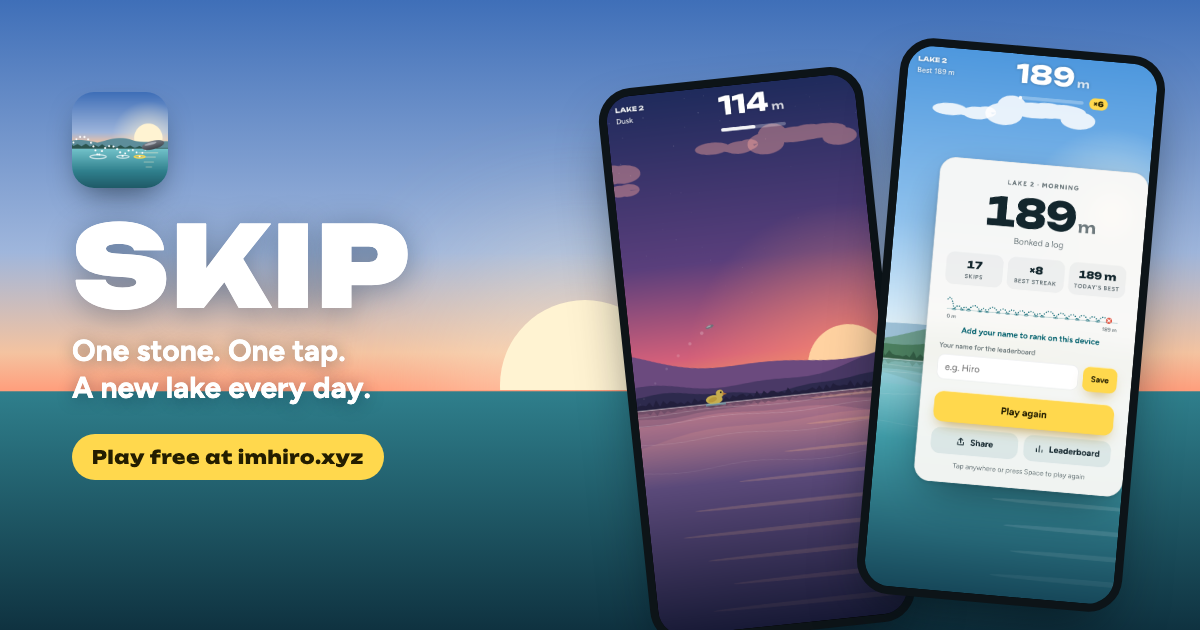
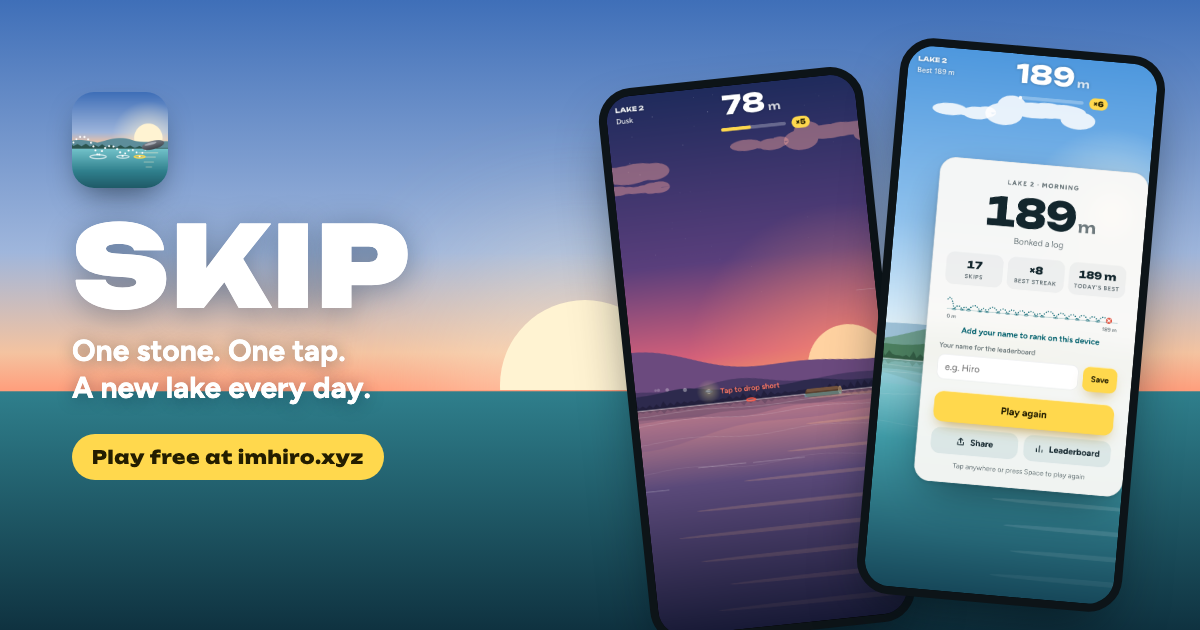
Skip: the sky moves on as a run goes farther
Every 125 m the lake blends into the next time of day (golden hour, dusk, night,
dawn...), the sun setting before the moon rises, with a banner and a soft chime.

Changed region(s): [[0.5242, 0.5429, 0.74, 0.6635], [0.5858, 0.1508, 0.74, 0.2714], [0.5242, 0.2413, 0.555, 0.3317]]

diff --git a/games/skip.html b/games/skip.html
@@ -373,6 +373,7 @@ const Audio = (() => {
     quack() { if (!ensure()) return; const t = ctx.currentTime; tone(t, 'sawtooth', 480, 330, 0.12, 0.10); tone(t + 0.15, 'sawtooth', 440, 290, 0.14, 0.09); },
     rustle() { if (!ensure()) return; noise(ctx.currentTime, 0.28, 2600, 0.7, 0.10); },
     whoosh() { if (!ensure()) return; noise(ctx.currentTime, 0.3, 1200, 0.6, 0.08); },
+    chime() { if (!ensure()) return; const t = ctx.currentTime; tone(t, 'sine', 659.25, 659.25, 0.55, 0.05); tone(t + 0.13, 'sine', 987.77, 987.77, 0.7, 0.045); },
     tada() {
       if (!ensure()) return; const t = ctx.currentTime;
       // a rising major arpeggio with a held top chord and a little sparkle
@@ -432,6 +433,7 @@ function init() {
   const forced = (hashParam('pal') || '').toLowerCase().replace(/[^a-z]/g, '');
   S.pal = PALETTES.find(p => p.id === forced) || PALETTES[hashStr('pal:' + S.key) % PALETTES.length];
   makeSkyBits(S.seed);
+  S.sky = S.pal.drawn; S.skyStage = 0; S.skyName = S.pal.name; S.banner = null;
   $('dayName').textContent = 'Lake ' + S.lake + ' · ' + S.pal.name;
   $('dayChip').style.setProperty('--swatch', S.pal.swatch);
   $('dayLine').textContent = prettyDate() + ' · the same lake for everyone';
@@ -486,6 +488,7 @@ function resetRun() {
   S.particles.length = 0; S.ripples.length = 0; S.popups.length = 0; S.trail.length = 0;
   for (const o of S.course) { o.hitAt = 0; o.gone = false; }
   S.camX = S.stone.x;
+  S.skyStage = 0; S.banner = null;
 }
 
 function predictContact(st) {
@@ -747,7 +750,8 @@ function showResult() {
   renderBestLine();
   $('rEyebrow').textContent = lakeLabel();
   const dn = $('rDist'); dn.textContent = String(d); const unit = document.createElement('small'); unit.textContent = 'm'; dn.appendChild(unit);
-  $('rReason').textContent = REASON_TEXT[S.endReason] || 'Sank';
+  const reached = skyState(S.dist);
+  $('rReason').textContent = (REASON_TEXT[S.endReason] || 'Sank') + (reached.stage > 0 ? ' · made it to ' + reached.pal.name.toLowerCase() : '');
   $('rSkips').textContent = String(n);
   $('rStreak').textContent = S.bestCombo >= 2 ? '×' + S.bestCombo : '–';
   $('rBest').textContent = Math.floor(S.best.dist) + ' m';
@@ -922,11 +926,41 @@ const PALETTES = [
     sun: { c: '#f4f1e3', glow: 'rgba(190,210,255,', y: 0.32, r: 0.034, moon: true }, cloud: 'rgba(120,140,190,0.16)',
     hills: ['#1c2c4c', '#14223c', '#0d182c'], trees: '#0a1322', water: ['#2c4a6e', '#152a46', '#060d1c'], glint: 'rgba(220,230,255,0.5)', stars: 1, shade: 0.68 }
 ];
+// The farther a run goes, the later it gets: every SKY_STAGE_M metres the sky moves on to the next
+// time of day, blending over the last SKY_BLEND_M metres. After night comes dawn again.
+const PAL_BY_ID = {}; for (const p of PALETTES) PAL_BY_ID[p.id] = p;
+const SKY_ORDER = ['dawn', 'morning', 'goldenhour', 'dusk', 'night'];
+const SKY_STAGE_M = 125, SKY_BLEND_M = 40;
+const SKY_ARRIVE = { dawn: 'Dawn breaks', morning: 'Morning', goldenhour: 'Golden hour', dusk: 'Dusk falls', night: 'Night falls' };
+function parseCol(s) {
+  if (s[0] === '#') { const n = s.length === 4 ? s.slice(1).split('').map(c => parseInt(c + c, 16)) : [1, 3, 5].map(i => parseInt(s.slice(i, i + 2), 16)); return [n[0], n[1], n[2], 1]; }
+  const v = s.slice(s.indexOf('(') + 1, s.indexOf(')')).split(',').map(Number); return [v[0], v[1], v[2], v.length > 3 ? v[3] : 1];
+}
+const rgbaStr = c => 'rgba(' + Math.round(c[0]) + ',' + Math.round(c[1]) + ',' + Math.round(c[2]) + ',' + (+c[3].toFixed(3)) + ')';
+const mixC = (x, y, t) => [lerp(x[0], y[0], t), lerp(x[1], y[1], t), lerp(x[2], y[2], t), lerp(x[3], y[3], t)];
+for (const p of PALETTES) p.flat = { sky: p.sky.map(parseCol), sunC: parseCol(p.sun.c), glow: parseCol(p.sun.glow + '1)'), cloud: parseCol(p.cloud), hills: p.hills.map(parseCol), trees: parseCol(p.trees), water: p.water.map(parseCol), glint: parseCol(p.glint), stars: p.stars, shade: p.shade || 1, sunY: p.sun.y, sunR: p.sun.r, moon: p.sun.moon ? 1 : 0 };
+function blendSky(a, b, t) {
+  const A = a.flat, B = b.flat, list = (k) => A[k].map((c, i) => rgbaStr(mixC(c, B[k][i], t)));
+  const o = { sky: list('sky'), hills: list('hills'), water: list('water'), cloud: rgbaStr(mixC(A.cloud, B.cloud, t)), trees: rgbaStr(mixC(A.trees, B.trees, t)), glint: rgbaStr(mixC(A.glint, B.glint, t)), stars: lerp(A.stars, B.stars, t), shade: lerp(A.shade, B.shade, t) };
+  if (A.moon === B.moon) { o.sunY = lerp(A.sunY, B.sunY, t); o.sunR = lerp(A.sunR, B.sunR, t); o.sunC = rgbaStr(mixC(A.sunC, B.sunC, t)); o.glow = mixC(A.glow, B.glow, t); o.moon = A.moon; }
+  else { // sun gives way to moon (or back): the first sets below the hills, then the other rises
+    const first = t < 0.5, X = first ? A : B, k = first ? t * 2 : (t - 0.5) * 2;
+    o.sunY = first ? lerp(A.sunY, -0.14, k) : lerp(-0.14, B.sunY, k); o.sunR = X.sunR; o.sunC = rgbaStr(X.sunC); o.glow = X.glow; o.moon = X.moon;
+  }
+  return o;
+}
+for (const p of PALETTES) p.drawn = blendSky(p, p, 0);
+function skyState(d) {
+  const i0 = Math.max(0, SKY_ORDER.indexOf(S.pal.id)), stage = Math.floor(Math.max(0, d) / SKY_STAGE_M);
+  const a = PAL_BY_ID[SKY_ORDER[(i0 + stage) % 5]], b = PAL_BY_ID[SKY_ORDER[(i0 + stage + 1) % 5]];
+  const t = clamp((d - stage * SKY_STAGE_M - (SKY_STAGE_M - SKY_BLEND_M)) / SKY_BLEND_M, 0, 1), e = t * t * (3 - 2 * t);
+  return { stage, pal: a, sky: e <= 0 ? a.drawn : blendSky(a, b, e) };
+}
 // Obstacle colours, darkened and cooled for the evening lakes (cheaper than a canvas filter).
 const shadeCache = new Map();
 function C(hex) {
-  const f = S.pal.shade || 1; if (f === 1) return hex;
-  const key = S.pal.id + hex; let v = shadeCache.get(key); if (v) return v;
+  const f = Math.round((S.sky ? S.sky.shade : 1) * 50) / 50; if (f >= 0.999) return hex;
+  const key = f + hex; let v = shadeCache.get(key); if (v) return v;
   const n = hex.length === 4 ? hex.slice(1).split('').map(c => parseInt(c + c, 16)) : [1, 3, 5].map(i => parseInt(hex.slice(i, i + 2), 16));
   const [r, g, b] = n; const l = (r + g + b) / 3; const s = 0.82; // a little less saturated
   const mix = c => Math.round(clamp((l + (c - l) * s) * f, 0, 255));
@@ -943,25 +977,26 @@ function makeSkyBits(seed) {
   }
 }
 function drawSky() {
-  const P = S.pal;
+  const P = S.sky;
   const g = ctx.createLinearGradient(0, 0, 0, WY);
   g.addColorStop(0, P.sky[0]); g.addColorStop(0.55, P.sky[1]); g.addColorStop(0.85, P.sky[2]); g.addColorStop(1, P.sky[3]);
   ctx.fillStyle = g; ctx.fillRect(0, 0, VW, WY + 2);
-  if (P.stars > 0) { // stars, slowly twinkling, barely drifting with the camera
+  if (P.stars > 0.01) { // stars, slowly twinkling, barely drifting with the camera
+    ctx.fillStyle = '#fff';
     for (const st of S.stars) {
       const x = ((st.x * (VW + 40) - S.camX * 0.01 * SC) % (VW + 40) + VW + 40) % (VW + 40) - 20;
       const y = st.y * WY * 0.9; const tw = 0.55 + 0.45 * Math.sin(S.vt * 1.7 + st.ph);
-      ctx.globalAlpha = P.stars * tw * (1 - y / WY) * 0.9; ctx.fillStyle = '#fff';
-      ctx.fillRect(x, y, st.s, st.s);
+      ctx.globalAlpha = P.stars * tw * (1 - y / WY) * 0.9; ctx.fillRect(x, y, st.s, st.s);
     }
     ctx.globalAlpha = 1;
   }
-  const sunX = VW * 0.74, sunY = WY - VH * P.sun.y, R = Math.max(16, VH * P.sun.r);
-  const gl = ctx.createRadialGradient(sunX, sunY, R * 0.5, sunX, sunY, R * (P.sun.moon ? 3 : 4));
-  gl.addColorStop(0, P.sun.glow + (P.sun.moon ? '0.35)' : '0.55)')); gl.addColorStop(1, P.sun.glow + '0)');
+  const sunX = VW * 0.74, sunY = WY - VH * P.sunY, R = Math.max(16, VH * P.sunR), G0 = P.glow;
+  const gl = ctx.createRadialGradient(sunX, sunY, R * 0.5, sunX, sunY, R * (P.moon ? 3 : 4));
+  gl.addColorStop(0, 'rgba(' + Math.round(G0[0]) + ',' + Math.round(G0[1]) + ',' + Math.round(G0[2]) + ',' + (P.moon ? 0.35 : 0.55) + ')');
+  gl.addColorStop(1, 'rgba(' + Math.round(G0[0]) + ',' + Math.round(G0[1]) + ',' + Math.round(G0[2]) + ',0)');
   ctx.fillStyle = gl; ctx.fillRect(0, 0, VW, WY);
-  ctx.fillStyle = P.sun.c; ctx.beginPath(); ctx.arc(sunX, sunY, R, 0, Math.PI * 2); ctx.fill();
-  if (P.sun.moon) { // a few soft maria on the moon
+  ctx.fillStyle = P.sunC; ctx.beginPath(); ctx.arc(sunX, sunY, R, 0, Math.PI * 2); ctx.fill();
+  if (P.moon) { // a few soft maria on the moon
     ctx.fillStyle = 'rgba(180,185,200,0.35)';
     ctx.beginPath(); ctx.arc(sunX - R * 0.3, sunY - R * 0.2, R * 0.28, 0, Math.PI * 2); ctx.fill();
     ctx.beginPath(); ctx.arc(sunX + R * 0.25, sunY + R * 0.3, R * 0.18, 0, Math.PI * 2); ctx.fill();
@@ -971,7 +1006,7 @@ function drawSky() {
   drawClouds();
 }
 function drawClouds() {
-  const P = S.pal, span = VW + 360; ctx.fillStyle = P.cloud;
+  const span = VW + 360; ctx.fillStyle = S.sky.cloud;
   for (const c of S.clouds) {
     const x = ((c.x * span + S.vt * c.v - S.camX * 0.035 * SC) % span + span) % span - 180;
     const y = c.y * WY * 0.8; const sc = c.sc * Math.max(0.7, SC);
@@ -990,7 +1025,7 @@ function hillPath(par, base, amp, f1, f2, f3) {
   ctx.lineTo(VW + 2, WY + 2); ctx.closePath();
 }
 function drawHills() {
-  const H = S.pal.hills;
+  const H = S.sky.hills;
   const layers = [
     [0.06, 80, 45, 0.0035, 0.009, 0.021, H[0]],
     [0.12, 46, 30, 0.005, 0.013, 0.03, H[1]],
@@ -1004,10 +1039,10 @@ function drawHills() {
     const within = (wx - k * 14) / 14; const tri = hh * (1 - Math.abs(within * 2 - 1));
     ctx.lineTo(x, WY - (tri + 3) * SC);
   }
-  ctx.lineTo(VW + 2, WY + 2); ctx.closePath(); ctx.fillStyle = S.pal.trees; ctx.fill();
+  ctx.lineTo(VW + 2, WY + 2); ctx.closePath(); ctx.fillStyle = S.sky.trees; ctx.fill();
 }
 function drawWater() {
-  const W3 = S.pal.water;
+  const W3 = S.sky.water;
   const g = ctx.createLinearGradient(0, WY, 0, VH);
   g.addColorStop(0, W3[0]); g.addColorStop(0.35, W3[1]); g.addColorStop(1, W3[2]);
   ctx.fillStyle = g; ctx.fillRect(0, WY, VW, VH - WY);
@@ -1015,7 +1050,7 @@ function drawWater() {
   ctx.save(); ctx.beginPath(); ctx.rect(0, WY, VW, VH - WY); ctx.clip();
   ctx.translate(0, WY * 1.7); ctx.scale(1, -0.7); ctx.globalAlpha = 0.22; drawHills(); ctx.restore();
   // sun glint
-  ctx.fillStyle = S.pal.glint;
+  ctx.fillStyle = S.sky.glint;
   for (let i = 0; i < 9; i++) {
     const yy = WY + 8 + i * ((VH - WY) / 9); const w = S.sun.r * (1.2 + i * 0.5);
     const wob = Math.sin(S.vt * 1.3 + i) * w * 0.3;
@@ -1279,7 +1314,19 @@ function drawHUD() {
   ctx.shadowBlur = 8; ctx.textAlign = 'left'; ctx.fillStyle = 'rgba(255,255,255,0.95)';
   ctx.font = '800 11px ' + FONT_D; ctx.fillText(('Lake ' + S.lake).toUpperCase(), 16, top + 4);
   ctx.font = '600 13px ' + FONT_B; ctx.fillStyle = 'rgba(255,255,255,0.85)';
-  ctx.fillText(S.best ? 'Best ' + Math.floor(S.best.dist) + ' m' : S.pal.name, 16, top + 22);
+  ctx.fillText(S.best ? 'Best ' + Math.floor(S.best.dist) + ' m' : S.skyName, 16, top + 22);
+  if (S.banner) { // the new time of day, under the speed bar
+    const k = (S.vt - S.banner.t0) / 2.6;
+    if (k >= 1) S.banner = null;
+    else {
+      const a = k < 0.15 ? k / 0.15 : k > 0.75 ? (1 - k) / 0.25 : 1;
+      ctx.globalAlpha = a; ctx.shadowBlur = 0; ctx.font = '800 13px ' + FONT_D;
+      const tw = ctx.measureText(S.banner.text.toUpperCase()).width, by2 = top + 80 - 6 * (1 - Math.min(1, k / 0.15));
+      ctx.fillStyle = 'rgba(8,22,30,0.42)'; roundRect(VW / 2 - tw / 2 - 16, by2, tw + 32, 28, 14); ctx.fill();
+      ctx.fillStyle = '#fff'; ctx.textAlign = 'center'; ctx.textBaseline = 'middle'; ctx.fillText(S.banner.text.toUpperCase(), VW / 2, by2 + 14.5);
+      ctx.textBaseline = 'top'; ctx.globalAlpha = 1;
+    }
+  }
   ctx.shadowBlur = 0;
   if (S.attempts === 1 && S.mode === 'play') {
     let msg = null;
@@ -1399,6 +1446,10 @@ function frame(now) {
   const k = Math.min(1, 2.5 * dt);
   S.zoom += (lerp(1, T.zoomOut, zt) - S.zoom) * k; S.anchor += (lerp(0.28, 0.2, zt) - S.anchor) * k;
   SC = BASE_SC * S.zoom; SX = Math.round(VW * S.anchor);
+  // the sky follows the run's distance; the title and its demo keep the day's own sky
+  const ss = skyState(S.skyD != null ? S.skyD : S.attract || S.mode === 'title' ? 0 : S.dist);
+  S.sky = ss.sky; S.skyName = ss.pal.name;
+  if (S.mode === 'play' && !S.attract && ss.stage > S.skyStage) { S.skyStage = ss.stage; S.banner = { text: SKY_ARRIVE[ss.pal.id], t0: S.vt }; Audio.chime(); }
   updateFx(dt); render(); drawConfetti();
 }
 document.addEventListener('visibilitychange', () => { last = performance.now(); });
@@ -1429,6 +1480,9 @@ if (shot === 'play') {
 }
 else if (shot === 'branch') { // frame the first branch with no HUD, to check its drawing
   window.__skip.mute = true; const b = S.course.find(o => o.type === 'branch'); S.mode = 'title'; S.camX = b.x - (+hashParam('dx') || 40); $('title').classList.remove('show');
+}
+else if (shot === 'sky') { // preview the sky at a given run distance: #shot=sky&d=180
+  window.__skip.mute = true; S.mode = 'title'; S.skyD = +hashParam('d') || 0; $('title').classList.remove('show');
 }
 else if (shot === 'result') { window.__skip.mute = true; window.__skip.sim(0.92, { smart: true, jitter: 0.02 }, false); }
 else startAttract();
